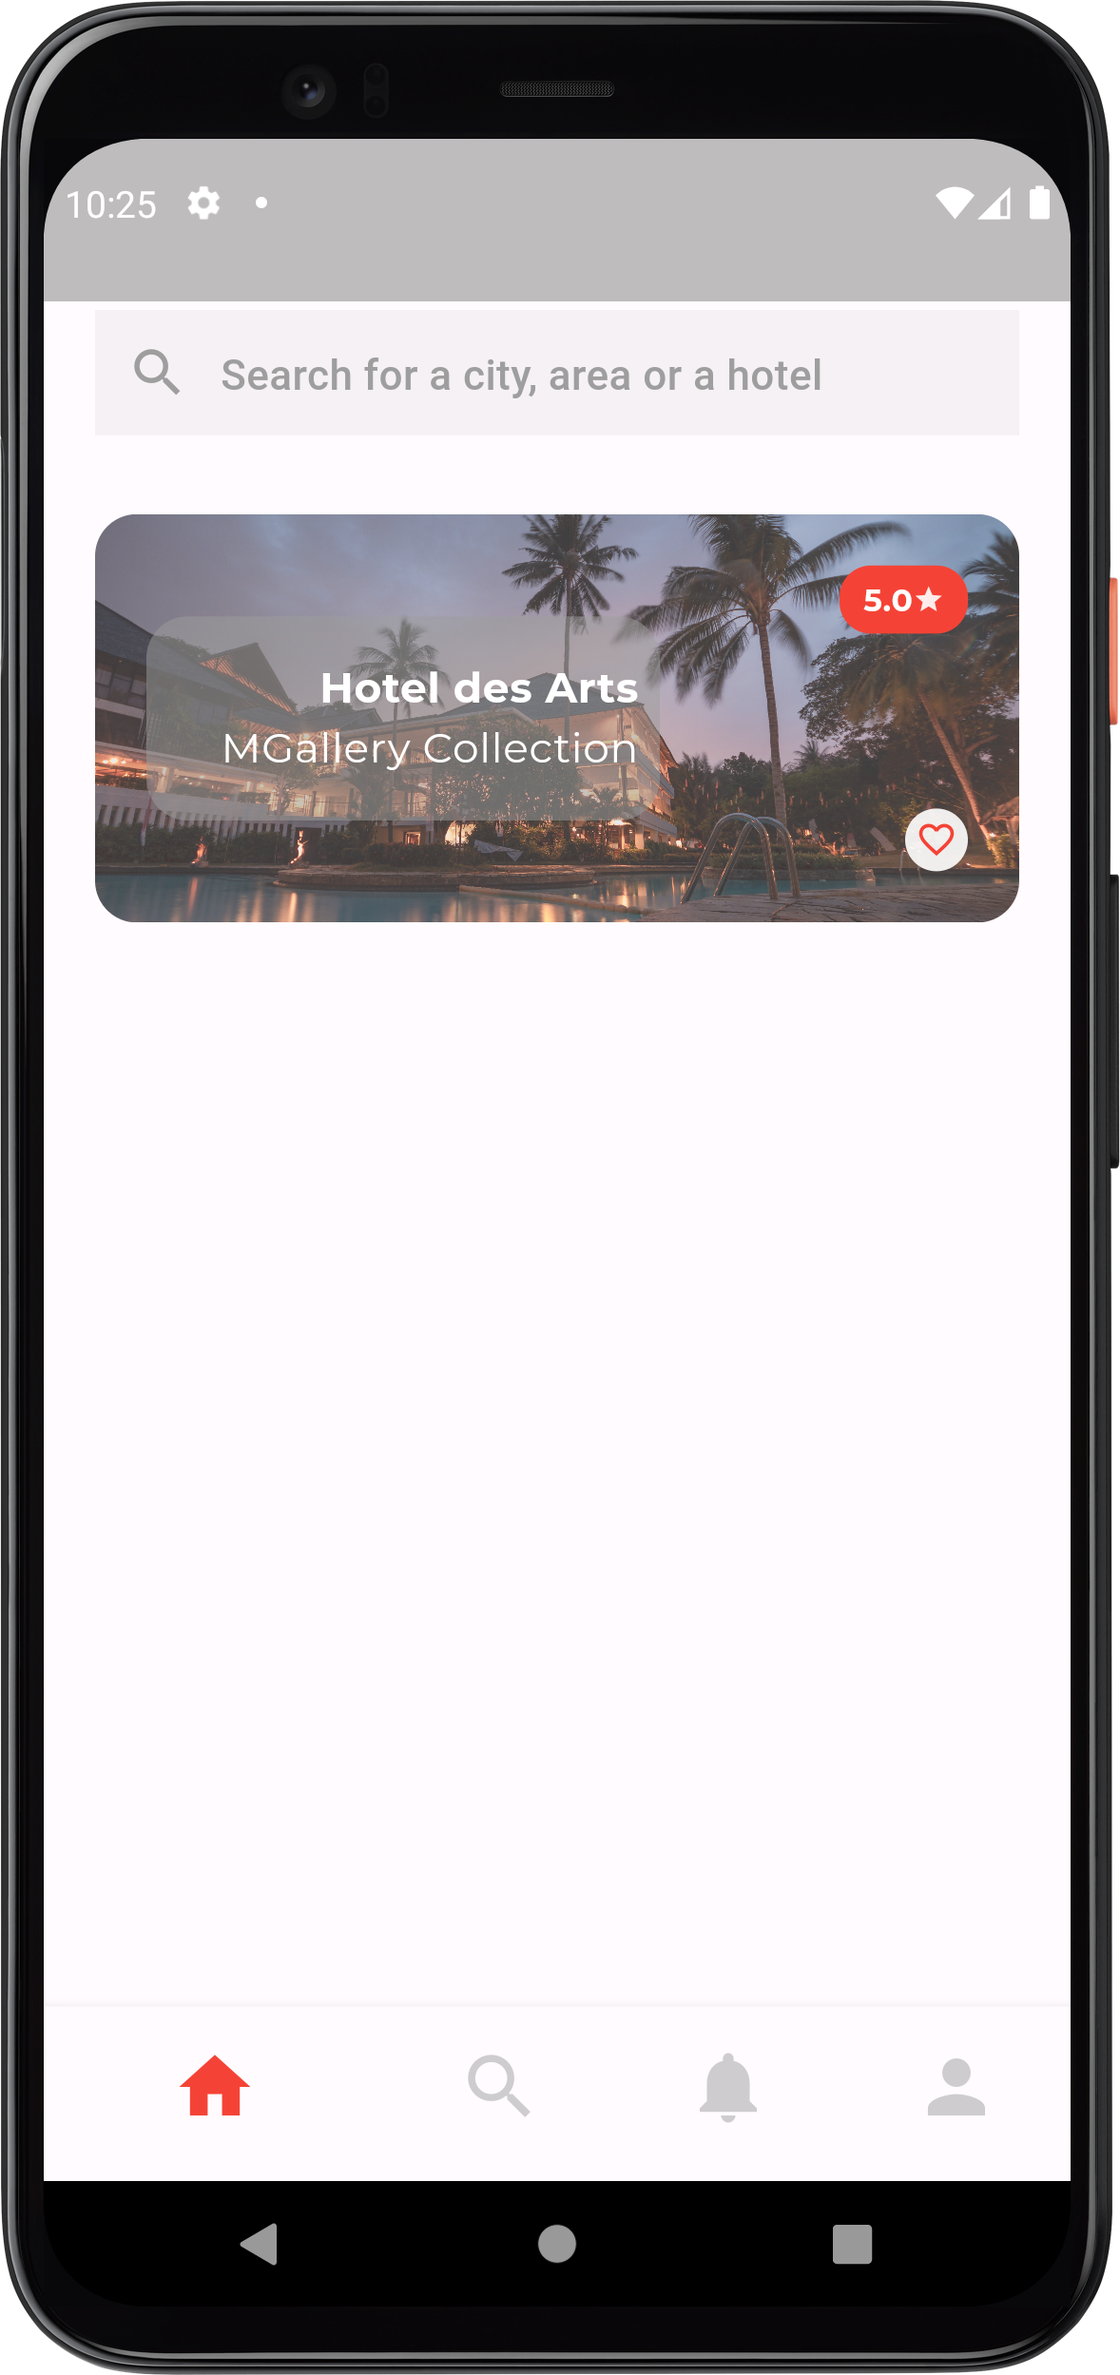
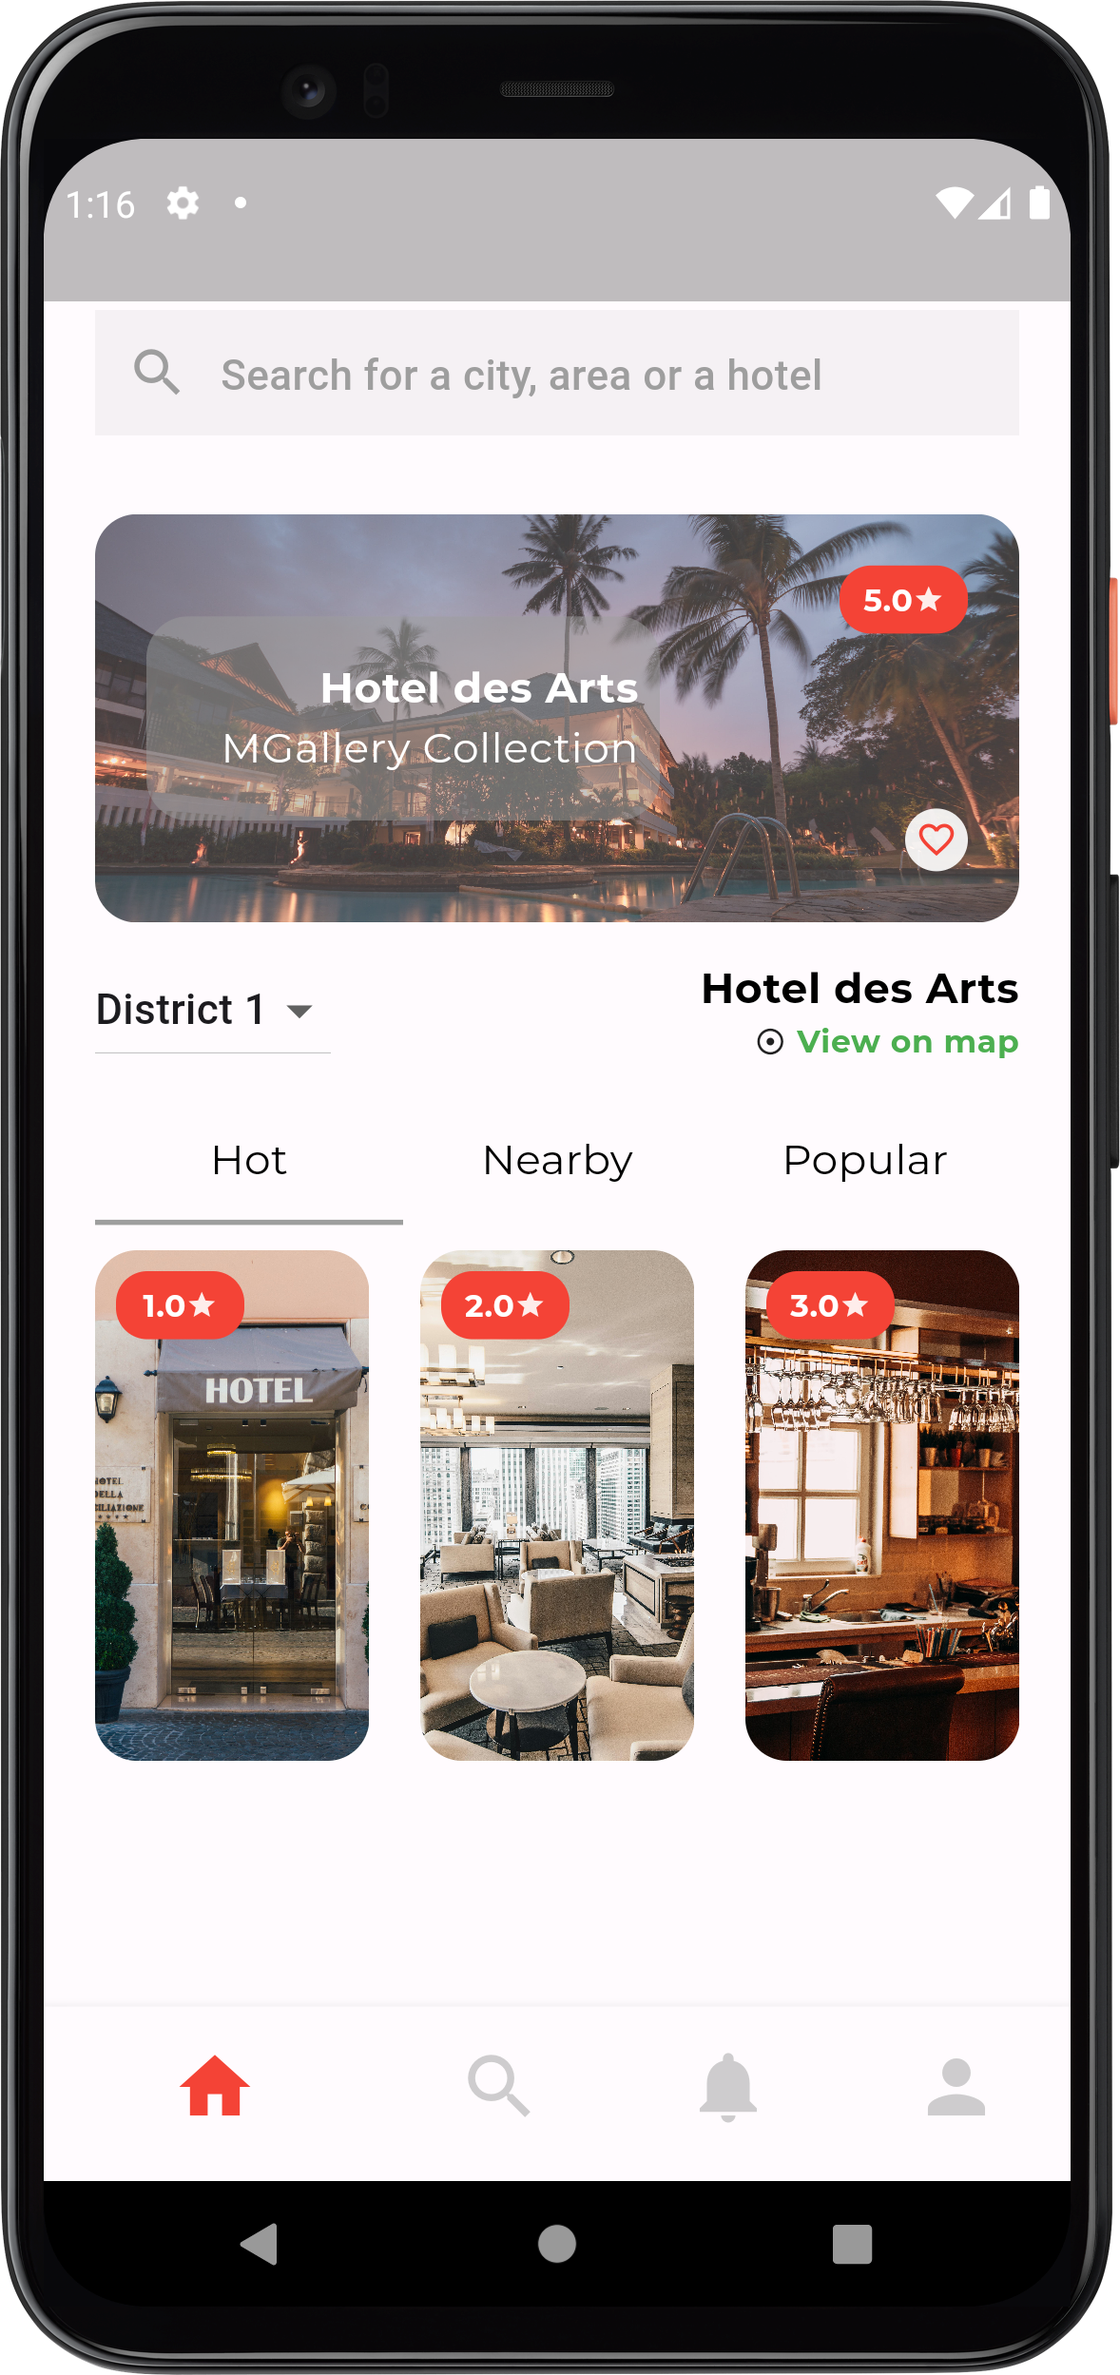
Build HomeFragment: Tabview and Horizontal hotel list.

diff --git a/lib/views/HomeFragment/home_fragment.dart b/lib/views/HomeFragment/home_fragment.dart
@@ -1,5 +1,14 @@
 import 'package:flutter/material.dart';
+import 'package:get/get.dart';
 import 'package:google_fonts/google_fonts.dart';
+import 'package:hotelier/controllers/HomeFragment/home_fragment_controller.dart';
+
+const List<String> dropdownValue = [
+  'District 1',
+  'District 2',
+  'District 3',
+  'District 4'
+];
 
 class HomeFragment extends StatefulWidget {
   const HomeFragment({Key? key}) : super(key: key);
@@ -8,7 +17,17 @@ class HomeFragment extends StatefulWidget {
   State<HomeFragment> createState() => _HomeFragmentState();
 }
 
-class _HomeFragmentState extends State<HomeFragment> {
+class _HomeFragmentState extends State<HomeFragment> with SingleTickerProviderStateMixin{
+  String defaultValue = dropdownValue.first;
+  TabController? tabController;
+  final controller = Get.put(HomeFragmentController());
+
+  @override
+  void initState() {
+    tabController = TabController(length: 3, vsync: this);
+    super.initState();
+  }
+
   @override
   Widget build(BuildContext context) {
     double maxWidth = MediaQuery.sizeOf(context).width;
@@ -17,12 +36,16 @@ class _HomeFragmentState extends State<HomeFragment> {
     return Scaffold(
       body: SingleChildScrollView(
         child: Container(
-          margin: EdgeInsets.only(left: maxWidth / 20, right: maxWidth / 20, top: maxWidth / 6, bottom: maxWidth / 10),
+          margin: EdgeInsets.only(
+              left: maxWidth / 20,
+              right: maxWidth / 20,
+              top: maxWidth / 6,
+              bottom: maxWidth / 10),
           child: Column(
             children: [
               SizedBox(
-                width: maxWidth * 90/100,
-                height: maxHeight * 1/10,
+                width: maxWidth * 90 / 100,
+                height: maxHeight * 1 / 10,
                 child: TextField(
                   decoration: InputDecoration(
                     filled: true,
@@ -30,7 +53,7 @@ class _HomeFragmentState extends State<HomeFragment> {
                     prefixIcon: const Icon(Icons.search, color: Colors.grey),
                     border: InputBorder.none,
                     hintText: 'Search for a city, area or a hotel',
-                    hintStyle: TextStyle(
+                    hintStyle: const TextStyle(
                       color: Colors.grey,
                     ),
                     counterText: '',
@@ -43,25 +66,25 @@ class _HomeFragmentState extends State<HomeFragment> {
                 borderRadius: const BorderRadius.all(Radius.circular(16.0)),
                 child: Container(
                   padding: EdgeInsets.all(maxWidth / 20),
-                  width: maxWidth * 9/10,
+                  width: maxWidth * 9 / 10,
                   height: maxHeight / 5,
-                  decoration: BoxDecoration(
+                  decoration: const BoxDecoration(
                     image: DecorationImage(
                         image: AssetImage('assets/images/bg (9).jpg'),
-                      fit: BoxFit.cover,
-                      opacity: 0.8
-                    ),
+                        fit: BoxFit.cover,
+                        opacity: 0.8),
                   ),
                   child: Stack(
                     children: [
                       Align(
                         alignment: Alignment.centerLeft,
                         child: ClipRRect(
-                          borderRadius: const BorderRadius.all(Radius.circular(16.0)),
+                          borderRadius:
+                              const BorderRadius.all(Radius.circular(16.0)),
                           child: Container(
-                            padding: EdgeInsets.all(8.0),
+                            padding: const EdgeInsets.all(8.0),
                             color: Colors.grey.withOpacity(0.5),
-                            width: maxWidth * 10/20,
+                            width: maxWidth * 10 / 20,
                             height: maxHeight / 10,
                             child: Column(
                               mainAxisAlignment: MainAxisAlignment.center,
@@ -71,19 +94,19 @@ class _HomeFragmentState extends State<HomeFragment> {
                                   "Hotel des Arts",
                                   style: GoogleFonts.montserrat(
                                       textStyle: const TextStyle(
-                                        fontWeight: FontWeight.bold,
-                                        color: Colors.white,
-                                        fontSize: 16.0,
-                                      )),
+                                    fontWeight: FontWeight.bold,
+                                    color: Colors.white,
+                                    fontSize: 16.0,
+                                  )),
                                   textAlign: TextAlign.center,
                                 ),
                                 Text(
                                   "MGallery Collection",
                                   style: GoogleFonts.montserrat(
                                       textStyle: const TextStyle(
-                                        color: Colors.white,
-                                        fontSize: 16.0,
-                                      )),
+                                    color: Colors.white,
+                                    fontSize: 16.0,
+                                  )),
                                   textAlign: TextAlign.center,
                                 ),
                               ],
@@ -94,12 +117,12 @@ class _HomeFragmentState extends State<HomeFragment> {
                       Align(
                         alignment: Alignment.bottomRight,
                         child: Container(
-                          padding: EdgeInsets.all(4.0),
+                          padding: const EdgeInsets.all(4.0),
                           decoration: BoxDecoration(
                             shape: BoxShape.circle,
                             color: Colors.white.withOpacity(0.9),
                           ),
-                          child: Icon(
+                          child: const Icon(
                             Icons.favorite_outline,
                             color: Colors.red,
                             size: 16.0,
@@ -109,11 +132,12 @@ class _HomeFragmentState extends State<HomeFragment> {
                       Align(
                         alignment: Alignment.topRight,
                         child: ClipRRect(
-                          borderRadius: const BorderRadius.all(Radius.circular(12.0)),
+                          borderRadius:
+                              const BorderRadius.all(Radius.circular(12.0)),
                           child: Container(
-                            width: maxWidth * 1/8,
-                            height: maxHeight * 1/30,
-                            decoration: BoxDecoration(
+                            width: maxWidth * 1 / 8,
+                            height: maxHeight * 1 / 30,
+                            decoration: const BoxDecoration(
                               color: Colors.red,
                             ),
                             child: Row(
@@ -123,13 +147,15 @@ class _HomeFragmentState extends State<HomeFragment> {
                                   "5.0",
                                   style: GoogleFonts.montserrat(
                                       textStyle: const TextStyle(
-                                        fontWeight: FontWeight.bold,
-                                        color: Colors.white,
-                                        fontSize: 12.0,
-                                      )),
+                                    fontWeight: FontWeight.bold,
+                                    color: Colors.white,
+                                    fontSize: 12.0,
+                                  )),
                                   textAlign: TextAlign.center,
                                 ),
-                                Icon(Icons.star, color: Colors.white.withOpacity(0.9),size: 12.0),
+                                Icon(Icons.star,
+                                    color: Colors.white.withOpacity(0.9),
+                                    size: 12.0),
                               ],
                             ),
                           ),
@@ -138,7 +164,194 @@ class _HomeFragmentState extends State<HomeFragment> {
                     ],
                   ),
                 ),
-              )
+              ),
+              Container(
+                margin: EdgeInsets.symmetric(vertical: maxWidth / 40),
+                child: Row(
+                  mainAxisAlignment: MainAxisAlignment.spaceBetween,
+                  children: [
+                    DropdownButton(
+                      value: defaultValue,
+                      items: dropdownValue.map((String value) {
+                        return DropdownMenuItem(
+                          value: value,
+                          child: Text(value),
+                        );
+                      }).toList(),
+                      onChanged: (String? value) {
+                        setState(() {
+                          defaultValue = value!;
+                        });
+                      },
+                    ),
+                    Column(
+                      mainAxisAlignment: MainAxisAlignment.spaceBetween,
+                      crossAxisAlignment: CrossAxisAlignment.end,
+                      children: [
+                        Text(
+                          "Hotel des Arts",
+                          style: GoogleFonts.montserrat(
+                              textStyle: const TextStyle(
+                            fontWeight: FontWeight.bold,
+                            color: Colors.black,
+                            fontSize: 16.0,
+                          )),
+                          textAlign: TextAlign.center,
+                        ),
+                        Row(
+                          children: [
+                            const Padding(
+                              padding:
+                                  EdgeInsets.symmetric(horizontal: 4.0),
+                              child: Icon(
+                                Icons.adjust,
+                                size: 12.0,
+                              ),
+                            ),
+                            Text(
+                              "View on map",
+                              style: GoogleFonts.montserrat(
+                                  textStyle: const TextStyle(
+                                fontWeight: FontWeight.bold,
+                                color: Colors.green,
+                                fontSize: 12.0,
+                              )),
+                              textAlign: TextAlign.center,
+                            ),
+                          ],
+                        ),
+                      ],
+                    )
+                  ],
+                ),
+              ),
+              TabBar(
+                dividerColor: Colors.transparent,
+                indicatorColor: Colors.grey,
+                tabs: [
+                  Tab(
+                      child: Text(
+                        "Hot",
+                        style: GoogleFonts.montserrat(
+                            textStyle: const TextStyle(
+                              // fontWeight: FontWeight.bold,
+                              color: Colors.black,
+                              fontSize: 16.0,
+                            )),
+                        textAlign: TextAlign.center,
+                      ),
+                  ),
+                  Tab(
+                    child: Text(
+                      "Nearby",
+                      style: GoogleFonts.montserrat(
+                          textStyle: const TextStyle(
+                            // fontWeight: FontWeight.bold,
+                            color: Colors.black,
+                            fontSize: 16.0,
+                          )),
+                      textAlign: TextAlign.center,
+                    ),
+                  ),
+                  Tab(
+                    child: Text(
+                      "Popular",
+                      style: GoogleFonts.montserrat(
+                          textStyle: const TextStyle(
+                            // fontWeight: FontWeight.bold,
+                            color: Colors.black,
+                            fontSize: 16.0,
+                          )),
+                      textAlign: TextAlign.center,
+                    ),
+                  ),
+                ],
+                controller: tabController,
+                indicatorSize: TabBarIndicatorSize.tab,
+              ),
+              Container(
+                margin: EdgeInsets.symmetric(vertical: maxWidth / 40),
+                // color: Colors.yellow,
+                child: SizedBox(
+                  height: maxHeight/4,
+                  child: TabBarView(
+                    controller: tabController,
+                    children: [
+                      ListView.builder(
+                        scrollDirection: Axis.horizontal,
+                          itemCount: controller.hotels.length,
+                          itemBuilder: (context, index) {
+                            return Stack(
+                              children: [
+                                Container(
+                                  margin: EdgeInsets.only(right: maxHeight/40),
+                                  child: ClipRRect(
+                                    borderRadius: const BorderRadius.all(Radius.circular(16.0)),
+                                    child: Container(
+                                      width: (maxWidth - (maxHeight/40)*4)/3,
+                                      height: maxHeight/4,
+                                      decoration: BoxDecoration(
+                                          image: DecorationImage(
+                                            image: AssetImage(controller.hotels.elementAt(index).pictureURL),
+                                            fit: BoxFit.cover,
+                                          )
+                                      ),
+                                    ),
+                                  ),
+                                ),
+                                Align(
+                                  alignment: Alignment.topRight,
+                                  child: Container(
+                                    margin: const EdgeInsets.only(top: 8.0, left: 8.0),
+                                    child: ClipRRect(
+                                      borderRadius:
+                                      const BorderRadius.all(Radius.circular(12.0)),
+                                      child: Container(
+                                        width: maxWidth * 1 / 8,
+                                        height: maxHeight * 1 / 30,
+                                        decoration: const BoxDecoration(
+                                          color: Colors.red,
+                                        ),
+                                        child: Row(
+                                          mainAxisAlignment: MainAxisAlignment.center,
+                                          children: [
+                                            Text(
+                                              controller.hotels.elementAt(index).rating.toString(),
+                                              style: GoogleFonts.montserrat(
+                                                  textStyle: const TextStyle(
+                                                    fontWeight: FontWeight.bold,
+                                                    color: Colors.white,
+                                                    fontSize: 12.0,
+                                                  )),
+                                              textAlign: TextAlign.center,
+                                            ),
+                                            Icon(Icons.star,
+                                                color: Colors.white.withOpacity(0.9),
+                                                size: 12.0),
+                                          ],
+                                        ),
+                                      ),
+                                    ),
+                                  ),
+                                )
+                              ],
+                            );
+                          },
+                      ),
+                      const Center(
+                        child: Text(
+                          'Screen 2',
+                        ),
+                      ),
+                      const Center(
+                        child: Text(
+                          'Screen 3',
+                        ),
+                      ),
+                    ],
+                  ),
+                ),
+              ),
             ],
           ),
         ),

diff --git a/lib/controllers/HomeFragment/home_fragment_controller.dart b/lib/controllers/HomeFragment/home_fragment_controller.dart
@@ -1,0 +1,13 @@
+import 'package:get/get.dart';
+import 'package:hotelier/data/models/hotel.dart';
+
+class HomeFragmentController extends GetxController{
+
+  List<Hotel> hotels = [
+    Hotel(pictureURL: 'assets/images/bg (1).jpg', rating: 1.0),
+    Hotel(pictureURL: 'assets/images/bg (2).jpg', rating: 2.0),
+    Hotel(pictureURL: 'assets/images/bg (3).jpg', rating: 3.0),
+    Hotel(pictureURL: 'assets/images/bg (4).jpg', rating: 4.0),
+    Hotel(pictureURL: 'assets/images/bg (5).jpg', rating: 5.0),
+  ];
+}

diff --git a/lib/controllers/login_controller.dart b/lib/controllers/login_controller.dart
@@ -1,4 +1,4 @@
-import 'package:flutter/cupertino.dart';
+import 'package:flutter/material.dart';
 import 'package:get/get.dart';
 
 class LoginController extends GetxController{

diff --git a/lib/data/models/hotel.dart b/lib/data/models/hotel.dart
@@ -1,0 +1,6 @@
+class Hotel {
+  final String pictureURL;
+  final double rating;
+
+  Hotel({required this.pictureURL, required this.rating});
+}
